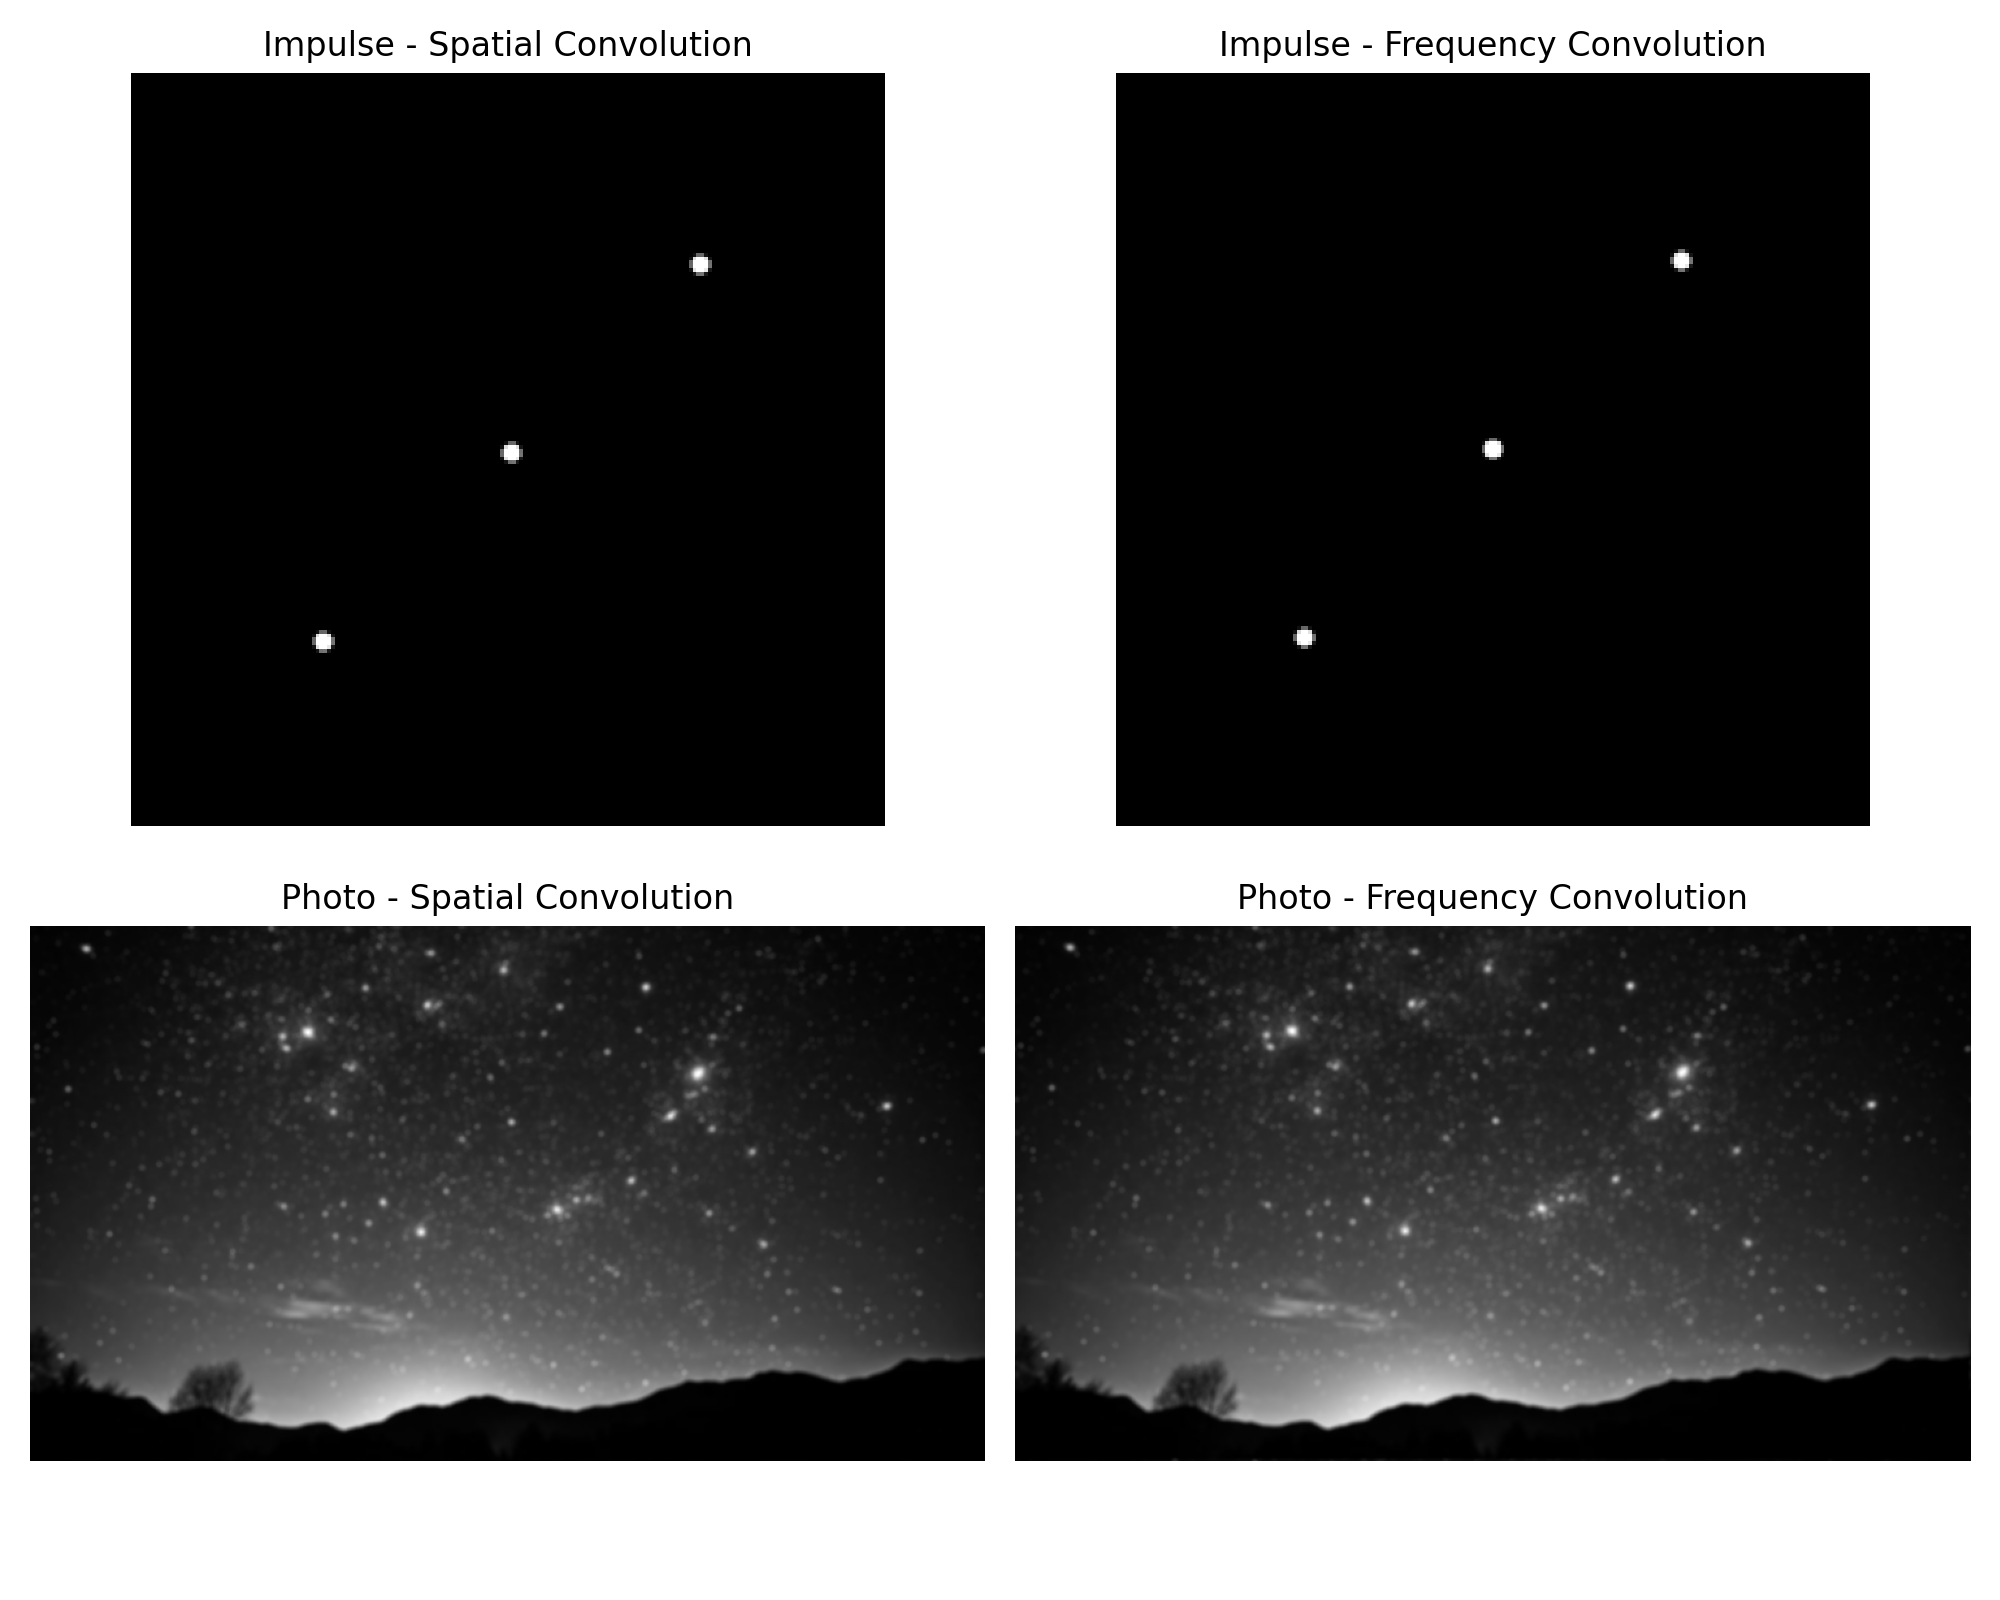
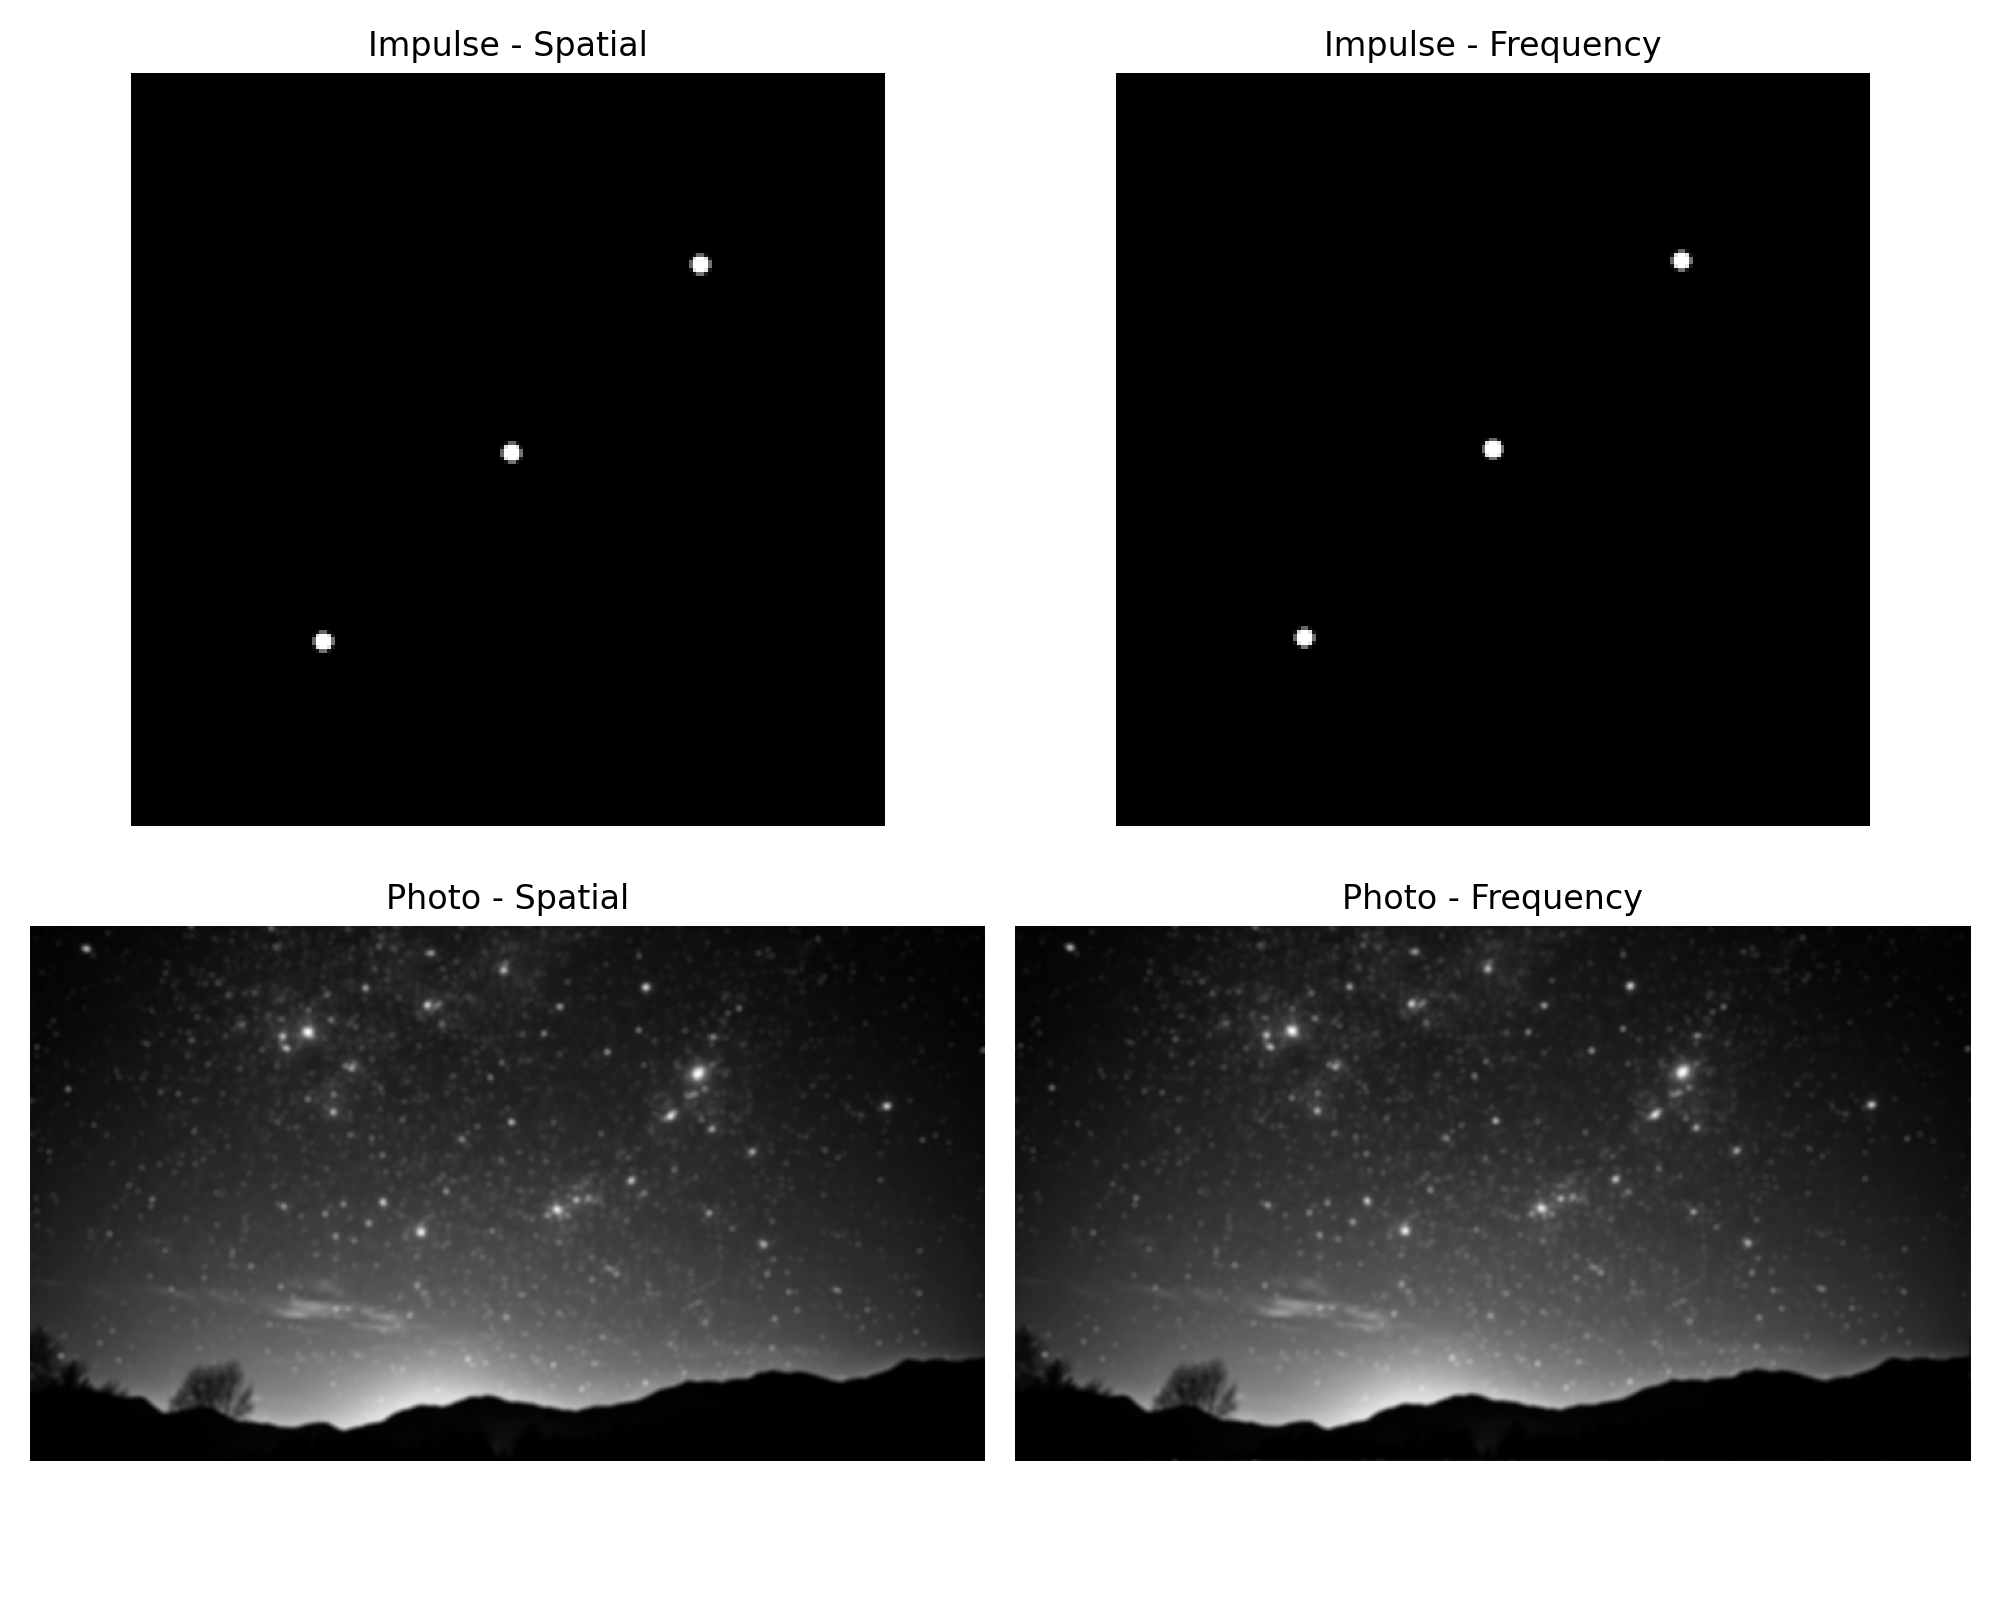
part2-d

diff --git a/part2.py b/part2.py
@@ -9,34 +9,24 @@ from scipy.signal import convolve2d
 # ==============================
 
 def load_and_normalize_psf(path):
-    """
-    Load PSF image, convert to float, normalize sum to 1.
-    """
     psf = cv2.imread(path, cv2.IMREAD_GRAYSCALE)
     if psf is None:
         raise FileNotFoundError(f"Cannot load PSF image at {path}")
-    
     psf = psf.astype(np.float32)
-    psf /= psf.sum()  # normalize so sum = 1
+    psf /= psf.sum()
     return psf
 
 def resize_psf(psf, sizes, output_dir="part2_output"):
-    """
-    Resize PSF to multiple sizes and save them.
-    sizes: list of integers for square PSFs (e.g., [200, 100, 50, 10])
-    """
     os.makedirs(output_dir, exist_ok=True)
     resized_versions = {}
-    
     for s in sizes:
         resized = cv2.resize(psf, (s, s), interpolation=cv2.INTER_AREA)
-        resized /= resized.sum()  # normalize again
+        resized /= resized.sum()
         psf_img = (resized / resized.max() * 255).astype(np.uint8)
         out_path = os.path.join(output_dir, f"psf_{s}x{s}.png")
         cv2.imwrite(out_path, psf_img)
         resized_versions[s] = resized
         print(f"Saved normalized PSF at {out_path}")
-    
     return resized_versions
 
 
@@ -45,19 +35,13 @@ def resize_psf(psf, sizes, output_dir="part2_output"):
 # ==============================
 
 def create_impulse_image(size=(200, 200), impulses=[(100, 100), (50, 150), (150, 50)]):
-    """
-    Create an image with a few isolated impulses.
-    """
     img = np.zeros(size, dtype=np.float32)
     for (y, x) in impulses:
         if 0 <= y < size[0] and 0 <= x < size[1]:
-            img[y, x] = 1.0  # bright impulses
+            img[y, x] = 1.0
     return img
 
 def save_image_normalized(img, path):
-    """
-    Normalize an image for visibility before saving.
-    """
     img_norm = img / img.max() if img.max() > 0 else img
     img_uint8 = (img_norm * 255).astype(np.uint8)
     cv2.imwrite(path, img_uint8)
@@ -71,29 +55,18 @@ def convolve_spatial(img, psf):
 # ==============================
 
 def convolve_frequency(img, psf, output_dir, label):
-    """
-    Perform convolution via FFT (multiplication in frequency domain).
-    Includes zero-padding and shows intermediate results.
-    """
     H, W = img.shape
     h, w = psf.shape
 
-    # Pad PSF to image size, center properly
     psf_padded = np.zeros_like(img)
     y0, x0 = H//2 - h//2, W//2 - w//2
     psf_padded[y0:y0+h, x0:x0+w] = psf
 
-    # Compute FFTs
     F_img = np.fft.fft2(img)
-    F_psf = np.fft.fft2(np.fft.ifftshift(psf_padded))  # center PSF before FFT
-
-    # Multiply in frequency domain
+    F_psf = np.fft.fft2(np.fft.ifftshift(psf_padded))
     F_blurred = F_img * F_psf
-
-    # Inverse FFT to get blurred image
     blurred = np.real(np.fft.ifft2(F_blurred))
 
-    # --- Save intermediate results ---
     def spectrum(x):
         return np.log(1 + np.abs(np.fft.fftshift(x)))
 
@@ -123,6 +96,54 @@ def convolve_frequency(img, psf, output_dir, label):
 
 
 # ==============================
+# PART (D): Quantitative Comparison
+# ==============================
+
+def mse(img1, img2):
+    return np.mean((img1 - img2) ** 2)
+
+def psnr(img1, img2):
+    mse_val = mse(img1, img2)
+    if mse_val == 0:
+        return float('inf')
+    max_pixel = 1.0
+    return 20 * np.log10(max_pixel / np.sqrt(mse_val))
+
+def compare_results(spatial, freq, name, output_dir):
+    diff = np.abs(spatial - freq)
+    mse_val = mse(spatial, freq)
+    psnr_val = psnr(spatial, freq)
+    max_diff = np.max(diff)
+
+    print(f"\n=== Comparison for {name} ===")
+    print(f"Mean Squared Error (MSE): {mse_val:.6e}")
+    print(f"Peak Signal-to-Noise Ratio (PSNR): {psnr_val:.2f} dB")
+    print(f"Maximum Absolute Difference: {max_diff:.6e}")
+
+    plt.figure(figsize=(12, 4))
+    plt.subplot(1, 3, 1)
+    plt.imshow(spatial, cmap='gray')
+    plt.title(f"{name}: Spatial Convolution")
+    plt.axis('off')
+
+    plt.subplot(1, 3, 2)
+    plt.imshow(freq, cmap='gray')
+    plt.title(f"{name}: Frequency Convolution")
+    plt.axis('off')
+
+    plt.subplot(1, 3, 3)
+    plt.imshow(diff, cmap='hot')
+    plt.title(f"{name}: Absolute Difference")
+    plt.axis('off')
+
+    plt.tight_layout()
+    save_path = os.path.join(output_dir, f"comparison_{name}.png")
+    plt.savefig(save_path, dpi=200)
+    plt.show()
+    print(f"✅ Saved comparison visualization for {name} at {save_path}")
+
+
+# ==============================
 # MAIN
 # ==============================
 
@@ -130,19 +151,14 @@ def main():
     output_dir = "part2_output"
     os.makedirs(output_dir, exist_ok=True)
 
-    # -----------------
-    # Part (a)
-    # -----------------
-    psf_path = "test-images/psf.png"  # Original 200x200 PSF
+    # --- Part (a)
+    psf_path = "test-images/psf.png"
     psf = load_and_normalize_psf(psf_path)
     sizes = [200, 100, 50, 10]
     psf_versions = resize_psf(psf, sizes, output_dir=output_dir)
 
-    # -----------------
-    # Part (b)
-    # -----------------
+    # --- Part (b)
     print("\n=== Running Part (b): Spatial-Domain Convolution ===")
-
     impulse_path = os.path.join(output_dir, "impulse_original.png")
     if not os.path.exists(impulse_path):
         impulse_img = create_impulse_image(size=(200, 200))
@@ -157,71 +173,59 @@ def main():
     if photo is None:
         raise FileNotFoundError(f"Cannot find image {photo_path}")
     photo = photo.astype(np.float32) / 255.0
-    print(f"Loaded photograph shape: {photo.shape}")
-
     psf_small = psf_versions[10]
 
-    # Spatial-domain convolution
     blurred_impulse_spatial = convolve_spatial(impulse_img, psf_small)
     blurred_photo_spatial = convolve_spatial(photo, psf_small)
     save_image_normalized(blurred_impulse_spatial, os.path.join(output_dir, "blurred_impulse_spatial.png"))
     save_image_normalized(blurred_photo_spatial, os.path.join(output_dir, "blurred_photo_spatial.png"))
 
-    # Show results for part (b)
     plt.figure(figsize=(12, 6))
     plt.subplot(1, 2, 1)
     plt.imshow(blurred_impulse_spatial, cmap='gray')
-    plt.title("Part (b): Impulse Blurred (Spatial Convolution)")
+    plt.title("Part (b): Impulse Blurred (Spatial)")
     plt.axis('off')
-
     plt.subplot(1, 2, 2)
     plt.imshow(blurred_photo_spatial, cmap='gray')
-    plt.title("Part (b): Photo Blurred (Spatial Convolution)")
+    plt.title("Part (b): Photo Blurred (Spatial)")
     plt.axis('off')
-
     plt.tight_layout()
     plt.savefig(os.path.join(output_dir, "part2b_results.png"), dpi=200)
     plt.show()
-    print("✅ Part (b) results saved.\n")
 
-    # -----------------
-    # Part (c)
-    # -----------------
+    # --- Part (c)
     print("\n=== Running Part (c): Frequency-Domain Convolution ===")
-
     blurred_impulse_freq = convolve_frequency(impulse_img, psf_small, output_dir, label="impulse")
     blurred_photo_freq = convolve_frequency(photo, psf_small, output_dir, label="photo")
 
     save_image_normalized(blurred_impulse_freq, os.path.join(output_dir, "blurred_impulse_freq.png"))
     save_image_normalized(blurred_photo_freq, os.path.join(output_dir, "blurred_photo_freq.png"))
 
-    # --- Show final comparison for part (c) ---
     plt.figure(figsize=(10, 8))
     plt.subplot(2, 2, 1)
     plt.imshow(blurred_impulse_spatial, cmap='gray')
-    plt.title("Impulse - Spatial Convolution")
+    plt.title("Impulse - Spatial")
     plt.axis('off')
-
     plt.subplot(2, 2, 2)
     plt.imshow(blurred_impulse_freq, cmap='gray')
-    plt.title("Impulse - Frequency Convolution")
+    plt.title("Impulse - Frequency")
     plt.axis('off')
-
     plt.subplot(2, 2, 3)
     plt.imshow(blurred_photo_spatial, cmap='gray')
-    plt.title("Photo - Spatial Convolution")
+    plt.title("Photo - Spatial")
     plt.axis('off')
-
     plt.subplot(2, 2, 4)
     plt.imshow(blurred_photo_freq, cmap='gray')
-    plt.title("Photo - Frequency Convolution")
+    plt.title("Photo - Frequency")
     plt.axis('off')
-
     plt.tight_layout()
     plt.savefig(os.path.join(output_dir, "part2c_final_comparison.png"), dpi=200)
     plt.show()
 
-    print("✅ Part (c) results and comparisons saved in:", output_dir)
+    # --- Part (d)
+    print("\n=== Running Part (d): Quantitative Comparison ===")
+    compare_results(blurred_impulse_spatial, blurred_impulse_freq, "Impulse", output_dir)
+    compare_results(blurred_photo_spatial, blurred_photo_freq, "Photo", output_dir)
 
 
 if __name__ == "__main__":
